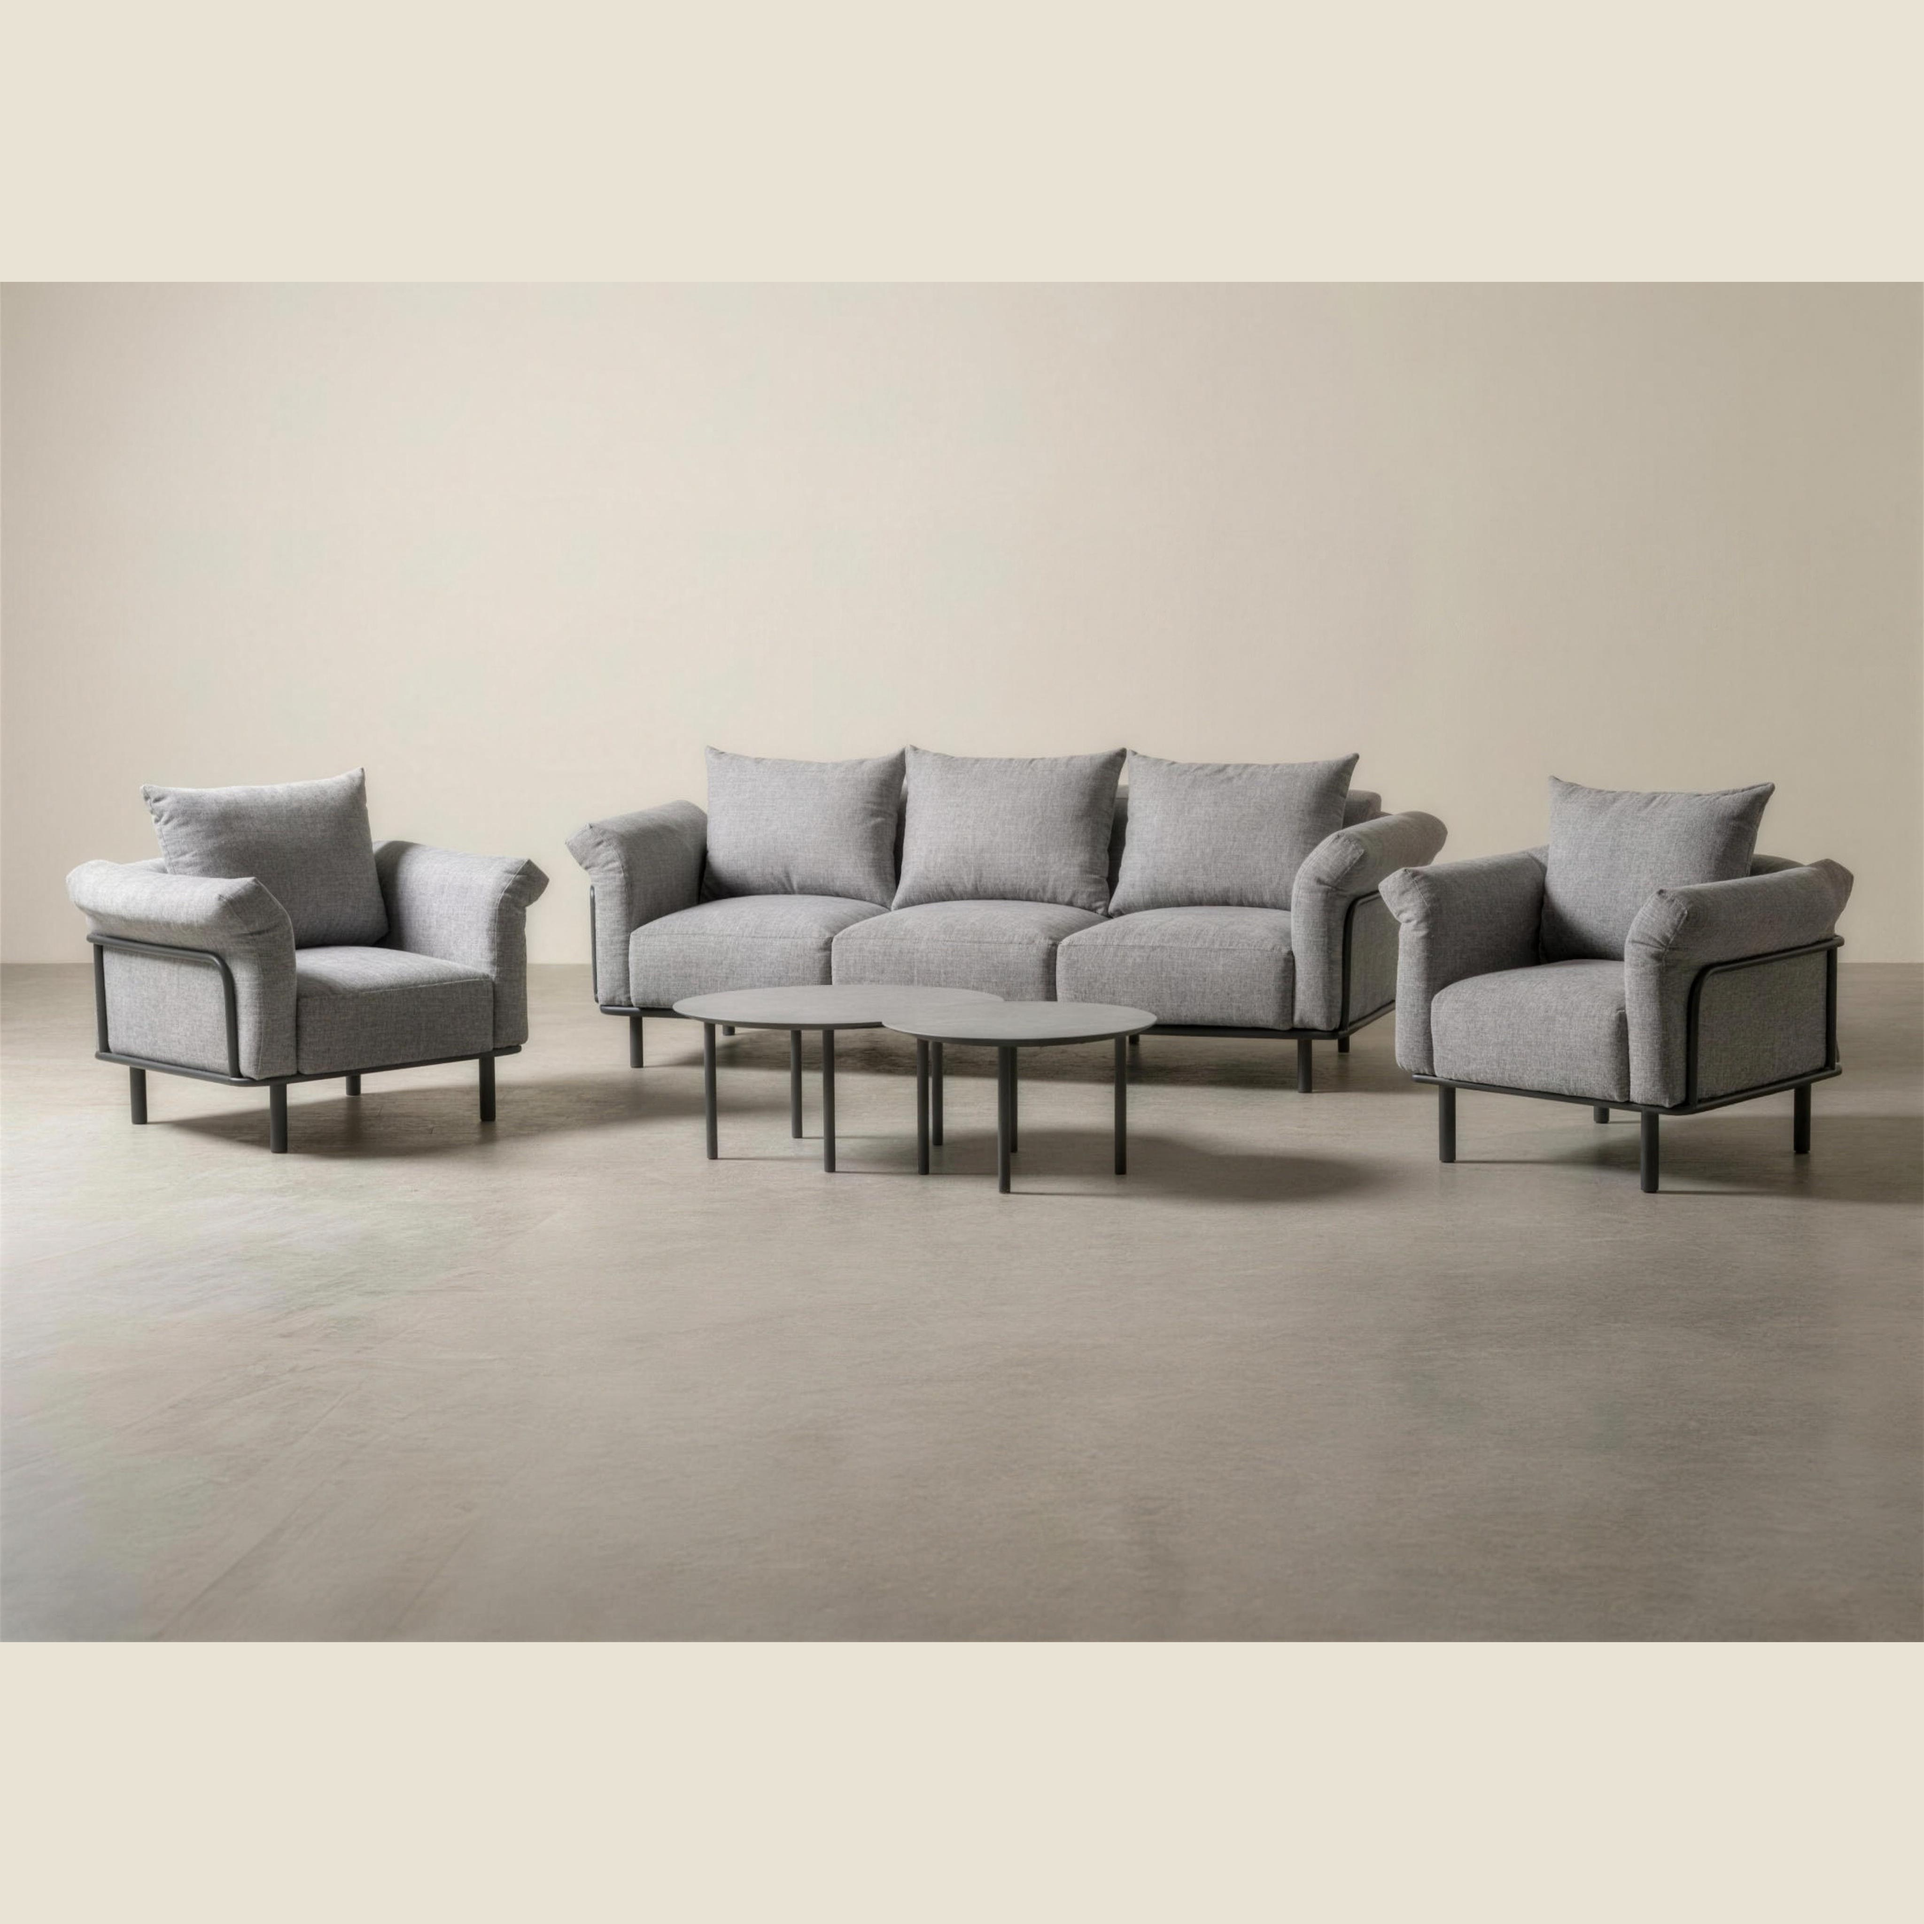
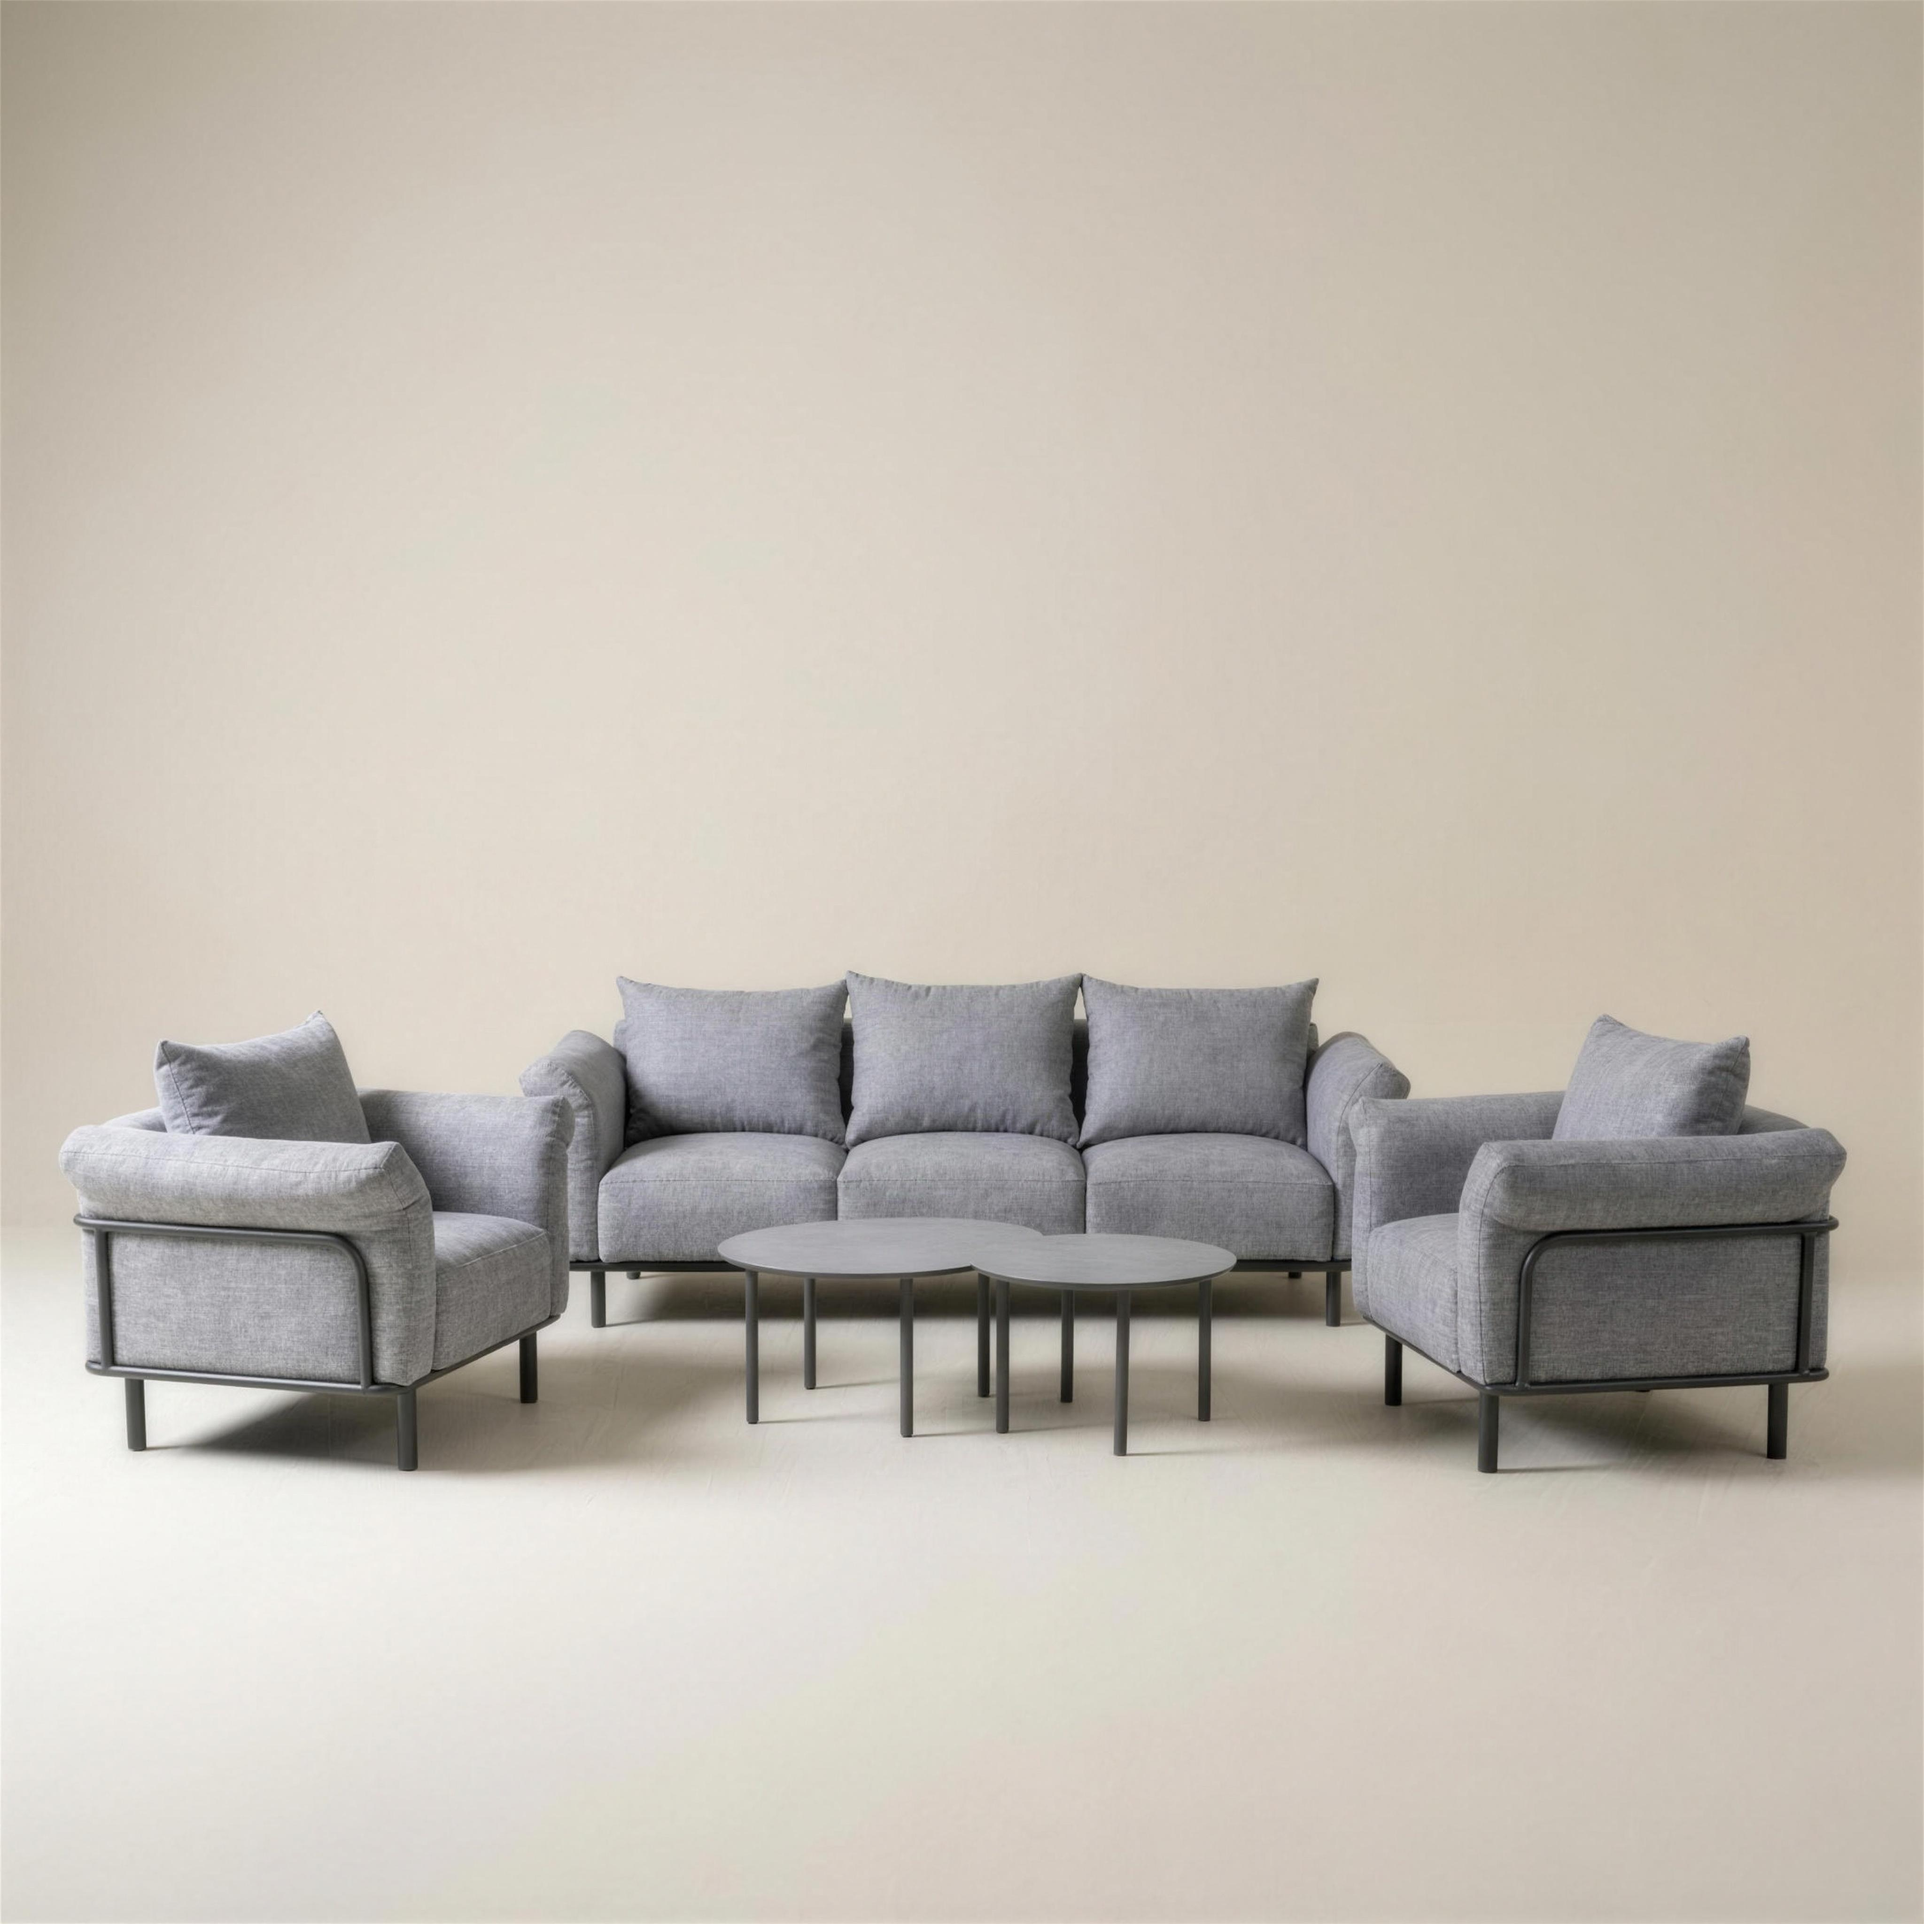
fix(brandon): el jacquard NO sale — 5 intentos, se para y se consulta
Verificacion al 100%: 26 hallazgos revisados, 5 confirmados, uno bloqueante.

EL JACQUARD NO ESTA en 01, 02, 03 ni 05. Y me equivoque al aprobarlo: lo que
tome por jacquard era la TRAMA del tejido (los hilos), no el MOTIVO. En la foto
del proveedor estan las dos cosas; en las generadas solo la trama.

TEST QUE LO SEPARA (ya en el skill): mismos cm reales -> mismo tamano ->
NORMALIZACION LOCAL (restar desenfoque gaussiano). Elimina luz y pliegues y deja
solo el motivo. Si solo aparece reticula regular, el jacquard no esta.

5 intentos, 3 resultados: borrado / exagerado a estampado / solo trama.
El modelo no reproduce este jacquard tono sobre tono.

SI arreglado en esta ronda:
- packshot: sin bandas pegadas (salto 85 -> 5), color corregido (sofa R-B
  +9,5 -> -6,2; sillon +23,9 -> -0,6 contra -4,7 real) y composicion en U.
- 02 sin libro, con cuenco de gres a escala; pero rompio el color del sillon
  izquierdo (+19/+29 por rebote del muro de caliza) -> no se usa.

Tambien confirmado: libro a 30-33 cm (tope 25) y texto inventado en los libros.

SE PARA. Queda una via sin probar, en el ROL §7.1 desde el principio: metodo A1
real — generar la escena y COMPOSITAR encima el recorte del producto real. No
genera el tejido: lo copia.

diff --git a/docs/santavila/JOURNAL.md b/docs/santavila/JOURNAL.md
@@ -48,6 +48,52 @@ tells de IA sobre las 5 definitivas.
 
 ---
 
+## 2026-08-19 · ⛔ EL JACQUARD NO SALE — 5 intentos y hay que parar
+
+Verificación al 100% pedida por Sergio: 7 lentes sobre las 5 definitivas, 26 hallazgos revisados,
+**5 confirmados**. Uno es bloqueante y obliga a parar.
+
+### El tejido: la trama no es el motivo
+El jacquard **no está** en 01, 02, 03 ni 05. Y lo importante es **por qué me equivoqué al aprobarlo**:
+comparé a igual escala —bien— pero lo que vi e interpreté como jacquard era **la trama del tejido (los
+hilos)**, no el motivo. En la foto del proveedor están las DOS cosas: la trama fina y, encima, los trazos
+caligráficos irregulares. En las generadas solo está la trama.
+
+**El test que lo separa** (ya en el skill): recortar el mismo nº de centímetros reales, llevarlos al mismo
+tamaño **y aplicar normalización local** (restar un desenfoque gaussiano). Eso elimina iluminación y pliegues
+y deja solo el motivo. Si tras normalizar solo aparece una retícula regular de hilos, **el jacquard no está**.
+Comparador: `_QA_DEFINITIVO_jacquard.jpg`.
+
+### Cinco intentos, tres resultados, ninguno bueno
+| Intento | Resultado |
+|---|---|
+| v1 | jacquard borrado en los asientos |
+| v2 | exagerado a estampado gráfico de trazos gruesos |
+| v3 "muy sutil" | borrado |
+| ambientes por swap | solo trama |
+| packshot v2 | solo trama |
+
+**El modelo no reproduce este jacquard tono sobre tono.** O lo borra, o lo grita, o lo sustituye por trama.
+
+### Lo que SÍ se arregló en esta ronda
+- **Packshot rehecho:** sin las bandas pegadas (salto de luminancia 85 → 5), **color corregido**
+  (sofá R−B +9,5 → −6,2; sillón +23,9 → −0,6, contra −4,7 del real) y **composición en U** que llena el cuadro.
+- **02 sin libro:** cuenco de gres vacío a escala en su lugar. Pero la regeneración **rompió el color del
+  sillón izquierdo** (+19 a +29 de R−B por el rebote del muro de caliza): esa versión no se usa.
+
+### Otros confirmados
+- **Libro sobredimensionado** en 05 (~30-33 cm frente a 22-25) y en 03. El auditor exageró la magnitud
+  (+56/+72%); la real es +25/+35%, pero se sale igual.
+- **Texto inventado** en portada y lomo de los libros: garabatos que a 4096 px el cliente ve al hacer zoom.
+- La **02 vende mejor que la 01** en la rejilla de colección.
+
+### Decisión pendiente de Sergio — se para aquí
+Aplica la LEY 0: *"Si no sé hacerlo, no lo hago."* Queda **una vía sin probar**, y está en el ROL §7.1 desde
+el principio: el **método A1 de verdad** — generar la escena y **compositar encima el recorte del producto
+real**. No genera el tejido: lo copia. Es la única forma de garantizar la trama píxel a píxel.
+
+---
+
 ## 2026-08-16 · Brandon 3 pl. · galería rehecha, ficha corregida y verificación en curso
 
 **Las tres imágenes rechazadas, regeneradas** con todo lo aprendido. La 02 ahora es una casona cántabra de
